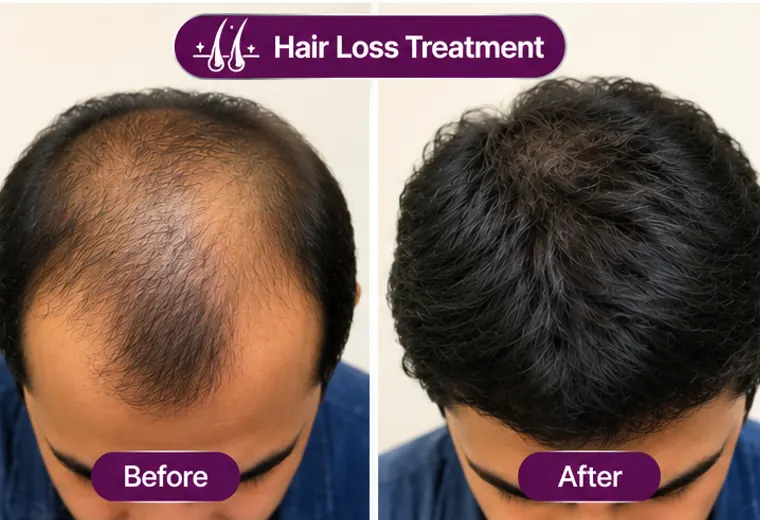
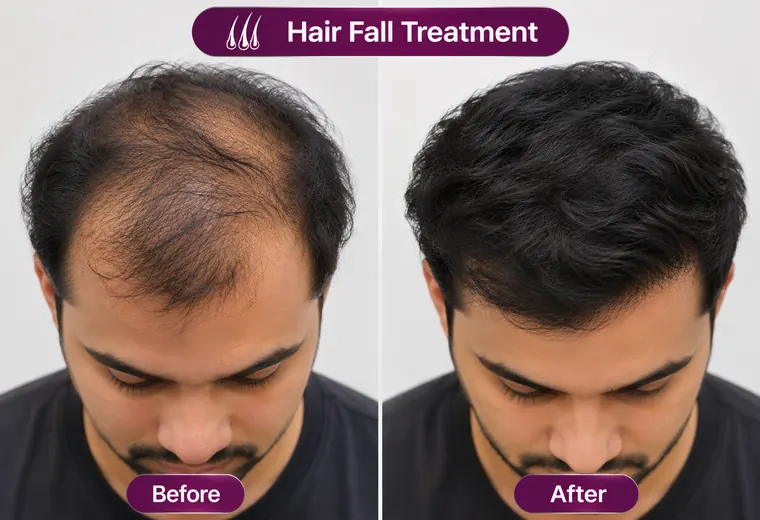
Before & After: new hair fall treatment panel

diff --git a/src/app/pages/home/home.ts b/src/app/pages/home/home.ts
@@ -49,7 +49,7 @@ export class Home {
     { image: 'assets/images/results/weight-loss.webp', title: 'Body Contouring & Slimming', serviceId: 'body-contouring', alt: 'Illustrative before and after of weight loss treatment' },
     { image: 'assets/images/results/laser.webp', title: 'Laser Treatment', serviceId: 'laser-treatment', alt: 'Illustrative before and after of laser facial hair removal' },
     { image: 'assets/images/results/skin.webp', title: 'Skin Treatment', serviceId: 'skin-treatments', alt: 'Illustrative before and after of acne skin treatment' },
-    { image: 'assets/images/results/hair-loss.webp', title: 'Hair Loss Treatment', serviceId: 'hair-treatments', alt: 'Illustrative before and after of hair loss treatment' },
+    { image: 'assets/images/results/hair-loss.webp', title: 'Hair Fall Treatment', serviceId: 'hair-treatments', alt: 'Illustrative before and after of hair fall treatment' },
   ];
 
   protected readonly highlights:{ icon: IconName; title: string; text: string }[] = [

diff --git a/CREDITS.md b/CREDITS.md
@@ -41,4 +41,4 @@ The social-share image (`public/og-image.jpg`) is composed from `hero-portrait.w
 
 ## Before & after panels
 
-`src/assets/images/results/*.webp` were cropped from an image supplied by the site owner ("Laser Treatment Facial Hair Before and After.png"). They are shown on the Home page as **illustrative images, not actual client results**, with that disclaimer visible. Replace them with genuine client photos (with written consent) when available, then remove the disclaimer.
+`src/assets/images/results/*.webp` were cropped from images supplied by the site owner ("Laser Treatment Facial Hair Before and After.png", "Hair Fall Treatment Before and After.png"). They are shown on the Home page as **illustrative images, not actual client results**, with that disclaimer visible. Replace them with genuine client photos (with written consent) when available, then remove the disclaimer.
